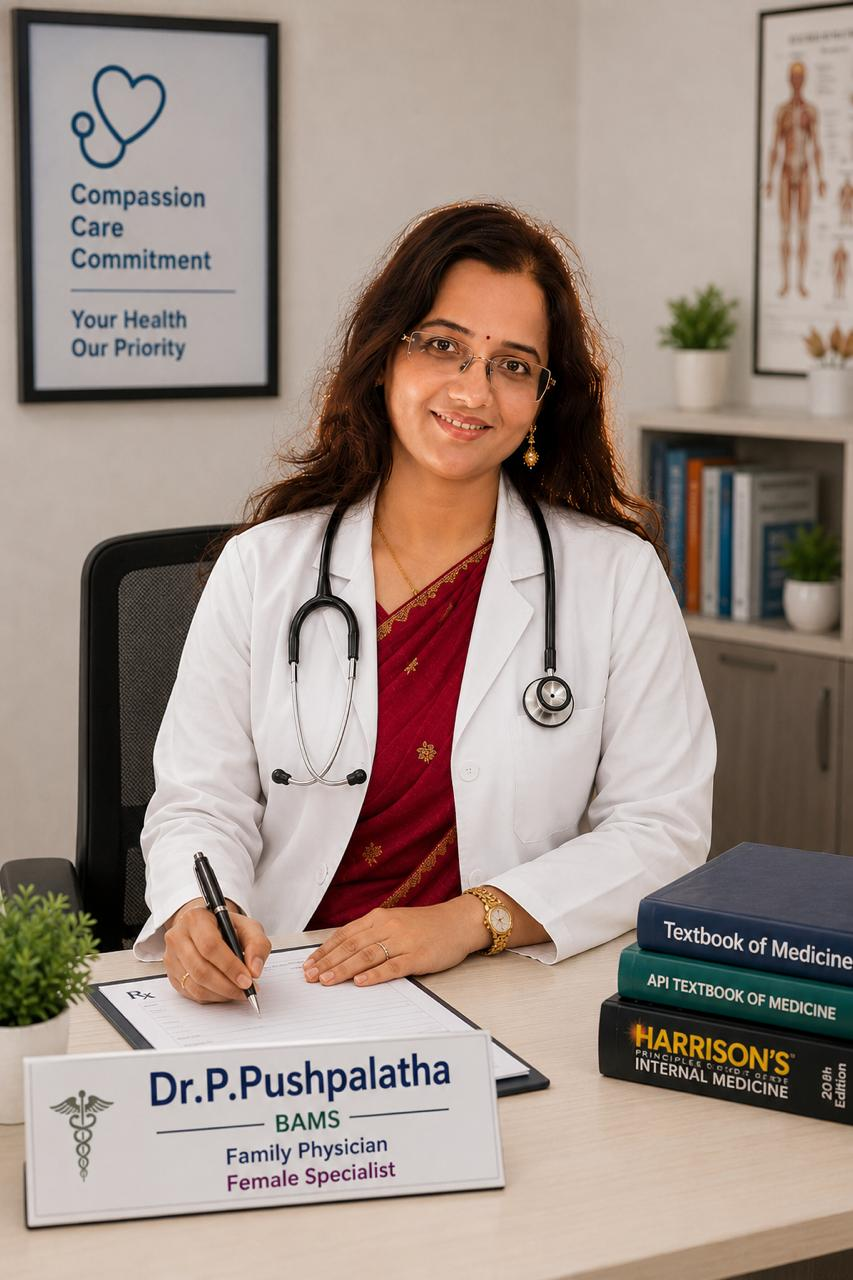
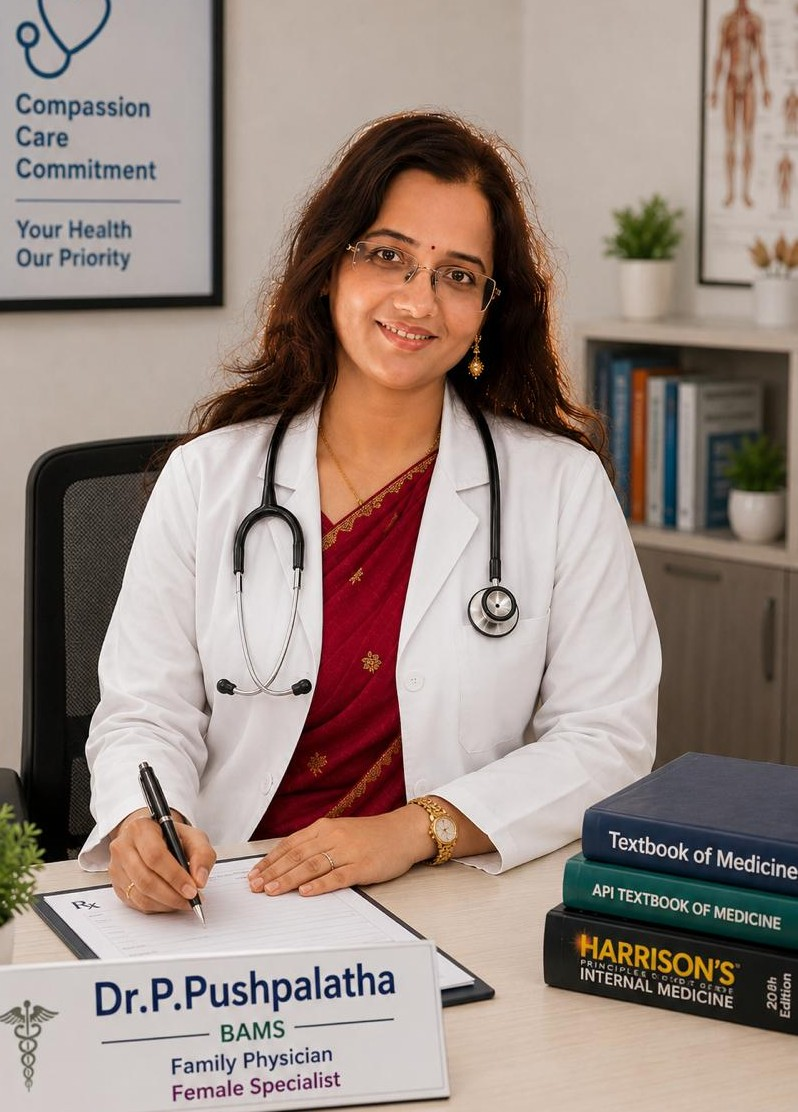
Refine homepage branding, about section, hero content and UI

diff --git a/src/routes/index.tsx b/src/routes/index.tsx
@@ -586,7 +586,7 @@ function About() {
           <div className="w-full relative glass-strong border border-white/20 p-2 sm:p-2.5 rounded-[32px] shadow-2xl transition-all duration-500 hover:scale-[1.01] hover:shadow-glow bg-white/5">
             <div className="overflow-hidden rounded-[24px]">
               <img
-                src="/extras/IMG_20260618_172533.jpg"
+                src="/extras/IMG-20260619-WA0120.jpg"
                 alt="Harsha Clinics, Pharmacy &amp; Diagnostics Poster"
                 className="w-full h-auto aspect-[1080/1548] object-contain rounded-[24px]"
                 loading="lazy"
@@ -642,9 +642,8 @@ function About() {
 
       {/* Expandable Section with smooth grid accordion height animation */}
       <div
-        className={`grid transition-all duration-500 ease-in-out ${
-          isExpanded ? "grid-rows-[1fr] opacity-100 mt-8" : "grid-rows-[0fr] opacity-0"
-        }`}
+        className={`grid transition-all duration-500 ease-in-out ${isExpanded ? "grid-rows-[1fr] opacity-100 mt-8" : "grid-rows-[0fr] opacity-0"
+          }`}
       >
         <div className="overflow-hidden">
           <div className="grid grid-cols-1 md:grid-cols-2 gap-6 pt-4 pb-2">
@@ -925,8 +924,8 @@ function ExpandableGrid<
               style={
                 isNew
                   ? {
-                      animation: `fade-up 0.5s ease-out ${(i - initial) * 50}ms both`,
-                    }
+                    animation: `fade-up 0.5s ease-out ${(i - initial) * 50}ms both`,
+                  }
                   : undefined
               }
             >
@@ -1091,7 +1090,7 @@ function Specialties() {
           );
         })}
       </MobileCarousel>
-      
+
       {/* Centered Button to View All Specialties */}
       <div className="mt-8 sm:mt-12 flex justify-center">
         <Link
@@ -1418,8 +1417,8 @@ function BookingForm({
     const branchDisplayName = matchedBranchObj
       ? matchedBranchObj.name
       : matchingSchedule.branch_name.toLowerCase().includes("madhapur")
-      ? "Madhapur"
-      : "TNGO Colony";
+        ? "Madhapur"
+        : "TNGO Colony";
 
     if (matchedBranchObj && matchedBranchObj.isOpen === false) {
       toast.error(
@@ -1709,9 +1708,8 @@ function Testimonials() {
                 key={i}
                 onClick={() => emblaApi?.scrollTo(i)}
                 aria-label={`Go to testimonial ${i + 1}`}
-                className={`h-2 rounded-full transition-all ${
-                  selected === i ? "w-8 gradient-orange" : "w-2 bg-violet/30 hover:bg-violet/50"
-                }`}
+                className={`h-2 rounded-full transition-all ${selected === i ? "w-8 gradient-orange" : "w-2 bg-violet/30 hover:bg-violet/50"
+                  }`}
               />
             ))}
           </div>
@@ -1743,9 +1741,8 @@ function FAQ() {
           return (
             <div
               key={i}
-              className={`glass-strong rounded-2xl overflow-hidden transition-all duration-300 ${
-                isOpen ? "shadow-soft" : ""
-              }`}
+              className={`glass-strong rounded-2xl overflow-hidden transition-all duration-300 ${isOpen ? "shadow-soft" : ""
+                }`}
             >
               <button
                 onClick={() => setOpen(isOpen ? null : i)}
@@ -1755,19 +1752,17 @@ function FAQ() {
                   {f.q}
                 </span>
                 <span
-                  className={`shrink-0 grid h-9 w-9 place-items-center rounded-full transition-all duration-300 ${
-                    isOpen
+                  className={`shrink-0 grid h-9 w-9 place-items-center rounded-full transition-all duration-300 ${isOpen
                       ? "gradient-orange text-white rotate-180"
                       : "bg-violet/10 text-violet-deep"
-                  }`}
+                    }`}
                 >
                   {isOpen ? <Minus className="h-4 w-4" /> : <Plus className="h-4 w-4" />}
                 </span>
               </button>
               <div
-                className={`grid transition-all duration-300 ease-out ${
-                  isOpen ? "grid-rows-[1fr] opacity-100" : "grid-rows-[0fr] opacity-0"
-                }`}
+                className={`grid transition-all duration-300 ease-out ${isOpen ? "grid-rows-[1fr] opacity-100" : "grid-rows-[0fr] opacity-0"
+                  }`}
               >
                 <div className="overflow-hidden">
                   <div className="px-5 sm:px-6 pb-6 text-sm sm:text-base text-muted-foreground leading-relaxed">
@@ -2193,11 +2188,10 @@ function ClinicGallery() {
           <button
             key={tab.id}
             onClick={() => setFilter(tab.id as "all" | "madhapur" | "tngo" | "facilities")}
-            className={`px-5 py-2.5 rounded-full text-xs sm:text-sm font-bold transition-all duration-300 ${
-              filter === tab.id
+            className={`px-5 py-2.5 rounded-full text-xs sm:text-sm font-bold transition-all duration-300 ${filter === tab.id
                 ? "bg-violet-deep text-white shadow-soft"
                 : "bg-violet/8 text-violet-deep hover:bg-violet/12 border border-violet/10"
-            }`}
+              }`}
           >
             {tab.label}
           </button>
@@ -2286,9 +2280,8 @@ function ClinicGallery() {
               type="button"
               onClick={() => emblaApi?.scrollTo(idx)}
               aria-label={`Go to slide ${idx + 1}`}
-              className={`h-1.5 rounded-full transition-all duration-300 ${
-                selectedIndex === idx ? "w-6 gradient-orange" : "w-1.5 bg-violet/30 hover:bg-violet/50"
-              }`}
+              className={`h-1.5 rounded-full transition-all duration-300 ${selectedIndex === idx ? "w-6 gradient-orange" : "w-1.5 bg-violet/30 hover:bg-violet/50"
+                }`}
             />
           ))}
         </div>
